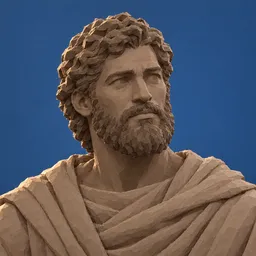
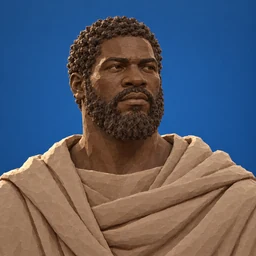
Show Judah's people as Black Israelites
Redraw the European-looking stand-in figures for Israelites with no
portrait (male/female-israel-2 and -5, group-israel-3 and -5) and give
the 316 people of Judah only the Black figures.

Claude-Session: https://claude.ai/code/session_015DV9ZvRrQgyCVhtxgRACrg

diff --git a/apps/expo/src/features/lexique/judahPeople.ts b/apps/expo/src/features/lexique/judahPeople.ts
@@ -1,0 +1,321 @@
+// The people of the tribe of Judah who have no portrait of their own, from the published People
+// data (data.cyberjudah.io/api/people, "tribe": "Tribe of Judah"). Their stand-in figure is always
+// one of the Black men or women, never another tribe's.
+export const JUDAH_PEOPLE = new Set([
+  'abigail-2sa-17-25',
+  'abihail-2ch-11-18',
+  'abinadab-1sa-16-8',
+  'abishur-1ch-2-28',
+  'abiud-mat-1-13',
+  'achim-mat-1-14',
+  'achsah-jos-15-16',
+  'adaiah-neh-11-5',
+  'addi-luk-3-28',
+  'aharhel-1ch-4-8',
+  'ahban-1ch-2-29',
+  'ahijah-1ch-2-25',
+  'ahumai-1ch-4-2',
+  'ahuzam-1ch-4-6',
+  'akkub-1ch-3-24',
+  'amariah-neh-11-4',
+  'ammihud-1ch-9-4',
+  'amnon-1ch-4-20',
+  'amon-2ki-21-18',
+  'amos-luk-3-25',
+  'anani-1ch-3-24',
+  'anub-1ch-4-8',
+  'appaim-1ch-2-30',
+  'ardon-1ch-2-18',
+  'arnan-1ch-3-21',
+  'asareel-1ch-4-16',
+  'ashur-1ch-2-24',
+  'assir-1ch-3-17',
+  'athaiah-neh-11-4',
+  'attai-2ch-11-20',
+  'azariah-1ch-2-8',
+  'azariah-2ch-21-2',
+  'azariah-2ch-21-2b',
+  'azariah-dan-1-6',
+  'azor-mat-1-13',
+  'azrikam-1ch-3-23',
+  'bani-1ch-9-4',
+  'bariah-1ch-3-22',
+  'baruch-neh-11-5',
+  'basmath-1ki-4-15',
+  'ben-hanan-1ch-4-20',
+  'ben-zoheth-1ch-4-20',
+  'berechiah-1ch-3-20',
+  'beth-rapha-1ch-4-12',
+  'bunah-1ch-2-25',
+  'calcol-1ch-2-6',
+  'caleb-1ch-2-50',
+  'carmi-jos-7-1',
+  'chalcol-1ki-4-31',
+  'chelub-1ch-4-11',
+  'chelubai-1ch-2-9',
+  'chileab-2sa-3-3',
+  'chilion-rut-1-2',
+  'col-hozeh-neh-11-5',
+  'cosam-luk-3-28',
+  'coz-1ch-4-8',
+  'dalaiah-1ch-3-24',
+  'dara-1ch-2-6',
+  'darda-1ki-4-31',
+  'eker-1ch-2-27',
+  'elah-1ch-4-15',
+  'eleazar-mat-1-15',
+  'eliab-1sa-16-6',
+  'eliada-2sa-5-16',
+  'eliakim-luk-3-30',
+  'eliakim-mat-1-13',
+  'eliashib-1ch-3-24',
+  'eliezer-luk-3-29',
+  'elihu-1ch-27-18',
+  'elioenai-1ch-3-23',
+  'eliphalet-2sa-5-16',
+  'eliphelet-1ch-3-6',
+  'elishama-1ch-3-6',
+  'elishama-2ki-25-25',
+  'elishama-2sa-5-16',
+  'elisheba-exo-6-23',
+  'elishua-2sa-5-15',
+  'eliud-mat-1-14',
+  'elmodam-luk-3-28',
+  'ephah-1ch-2-47',
+  'epher-1ch-4-17',
+  'er-1ch-4-21',
+  'er-luk-3-28',
+  'eshton-1ch-4-11',
+  'esli-luk-3-25',
+  'ethan-1ch-2-6',
+  'ethan-1ki-4-31',
+  'ethnan-1ch-4-7',
+  'ezer-1ch-4-4',
+  'ezra-1ch-4-17',
+  'gazez-1ch-2-46',
+  'geshan-1ch-2-47',
+  'haahashtari-1ch-4-6',
+  'hamul-gen-46-12',
+  'hananiah-1ch-3-19',
+  'hananiah-dan-1-6',
+  'haran-1ch-2-46',
+  'hareph-1ch-2-51',
+  'haroeh-1ch-2-52',
+  'harum-1ch-4-8',
+  'hasadiah-1ch-3-20',
+  'hashubah-1ch-3-20',
+  'hathath-1ch-4-13',
+  'hattush-1ch-3-22',
+  'hattush-ezr-8-2',
+  'hazaiah-neh-11-5',
+  'hazelelponi-1ch-4-3',
+  'heber-1ch-4-18',
+  'hebron-1ch-2-42',
+  'heli-luk-3-23',
+  'heman-1ch-2-6',
+  'heman-1ki-4-31',
+  'hepher-1ch-4-6',
+  'hezekiah-1ch-3-23',
+  'hezron-gen-46-12',
+  'hodaiah-1ch-3-24',
+  'hoshama-1ch-3-18',
+  'hur-exo-31-2',
+  'ibhar-2sa-5-15',
+  'idbash-1ch-4-3',
+  'igeal-1ch-3-22',
+  'imri-1ch-9-4',
+  'iru-1ch-4-15',
+  'ishbah-1ch-4-17',
+  'ishi-1ch-2-31',
+  'ishi-1ch-4-20',
+  'ishma-1ch-4-3',
+  'ithream-2sa-3-5',
+  'jabez-1ch-4-9',
+  'jacob-mat-1-15',
+  'jada-1ch-2-28',
+  'jahath-1ch-4-2',
+  'jahdai-1ch-2-47',
+  'jalon-1ch-4-17',
+  'jamin-1ch-2-27',
+  'janna-luk-3-24',
+  'japhia-2sa-5-15',
+  'jecamiah-1ch-3-18',
+  'jeconiah-1ch-3-16',
+  'jehaleleel-1ch-4-16',
+  'jehiel-2ch-21-2',
+  'jehoahaz-2ki-23-30',
+  'jehoiachin-2ki-24-6',
+  'jehoram-1ki-22-50',
+  'jehosheba-2ki-11-2',
+  'jekuthiel-1ch-4-18',
+  'jephunneh-num-13-6',
+  'jered-1ch-4-18',
+  'jerimoth-2ch-11-18',
+  'jesaiah-1ch-3-21',
+  'jesher-1ch-2-18',
+  'jether-1ch-2-32',
+  'jether-1ch-4-17',
+  'jeuel-1ch-9-6',
+  'jeush-2ch-11-19',
+  'jezoar-1ch-4-7',
+  'jezreel-1ch-4-3',
+  'joab-1ch-4-14',
+  'joacim-1es-5-5',
+  'joanna-luk-3-27',
+  'joash-1ch-4-22',
+  'johanan-1ch-3-15',
+  'johanan-1ch-3-24',
+  'joiarib-neh-11-5',
+  'jokim-1ch-4-22',
+  'jonan-luk-3-30',
+  'jonathan-1ch-2-32',
+  'jonathan-2sa-21-21',
+  'jorim-luk-3-29',
+  'jose-luk-3-29',
+  'joseph-luk-3-24',
+  'joseph-luk-3-26',
+  'joseph-luk-3-30',
+  'jotham-1ch-2-47',
+  'jotham-2ki-15-5',
+  'juda-luk-3-26',
+  'juda-luk-3-30',
+  'jushab-hesed-1ch-3-20',
+  'kenaz-1ch-4-15',
+  'kenaz-jos-15-17',
+  'korah-1ch-2-43',
+  'laadah-1ch-4-21',
+  'lahad-1ch-4-2',
+  'lettus-1es-8-29',
+  'levi-luk-3-24',
+  'levi-luk-3-29',
+  'maaseiah-neh-11-5',
+  'maath-luk-3-26',
+  'maaz-1ch-2-27',
+  'mahalaleel-neh-11-4',
+  'mahalath-2ch-11-18',
+  'maharai-2sa-23-28',
+  'mahlon-rut-1-2',
+  'mahol-1ki-4-31',
+  'malchiram-1ch-3-18',
+  'maon-1ch-2-45',
+  'mareshah-1ch-2-42',
+  'mary-mat-1-16',
+  'mattatha-luk-3-31',
+  'mattathias-luk-3-25',
+  'mattathias-luk-3-26',
+  'matthan-mat-1-15',
+  'matthat-luk-3-24',
+  'matthat-luk-3-29',
+  'mehir-1ch-4-11',
+  'melchi-luk-3-24',
+  'melchi-luk-3-28',
+  'melea-luk-3-31',
+  'menan-luk-3-31',
+  'meonothai-1ch-4-14',
+  'mered-1ch-4-17',
+  'mesha-1ch-2-42',
+  'meshezabeel-neh-11-24',
+  'meshullam-1ch-3-19',
+  'michael-2ch-21-2',
+  'mishael-dan-1-6',
+  'molid-1ch-2-29',
+  'moza-1ch-2-46',
+  'naam-1ch-4-15',
+  'nadab-1ch-2-28',
+  'nagge-luk-3-25',
+  'naum-luk-3-25',
+  'neariah-1ch-3-22',
+  'nedabiah-1ch-3-18',
+  'nepheg-2sa-5-15',
+  'neri-luk-3-27',
+  'nethaneel-1ch-2-14',
+  'nogah-1ch-3-7',
+  'obadiah-1ch-3-21',
+  'ohel-1ch-3-20',
+  'omri-1ch-9-4',
+  'onam-1ch-2-26',
+  'ophrah-1ch-4-14',
+  'oren-1ch-2-25',
+  'ozem-1ch-2-15',
+  'ozem-1ch-2-25',
+  'paseah-1ch-4-12',
+  'pedaiah-1ch-3-18',
+  'pelaiah-1ch-3-24',
+  'pelatiah-1ch-3-21',
+  'pelet-1ch-2-47',
+  'peleth-1ch-2-33',
+  'penuel-1ch-4-4',
+  'pethahiah-neh-11-24',
+  'raddai-1ch-2-14',
+  'raham-1ch-2-44',
+  'ram-1ch-2-25',
+  'reaiah-1ch-4-2',
+  'regem-1ch-2-47',
+  'rekem-1ch-2-43',
+  'rephaiah-1ch-3-21',
+  'rhesa-luk-3-27',
+  'rinnah-1ch-4-20',
+  'sadoc-mat-1-14',
+  'salathiel-1ch-3-17',
+  'salma-1ch-2-51',
+  'saraph-1ch-4-22',
+  'sechenias-1es-8-29',
+  'segub-1ch-2-21',
+  'seled-1ch-2-30',
+  'semei-luk-3-26',
+  'seraiah-1ch-4-13',
+  'shaaph-1ch-2-47',
+  'shaaph-1ch-2-49',
+  'shallum-1ch-3-15',
+  'shamariah-2ch-11-19',
+  'shammah-1sa-16-9',
+  'shammai-1ch-2-28',
+  'shammai-1ch-2-44',
+  'shammai-1ch-4-17',
+  'shammua-2sa-5-14',
+  'shaphat-1ch-3-22',
+  'sheber-1ch-2-48',
+  'shechaniah-1ch-3-21',
+  'shelomith-1ch-3-19',
+  'shema-1ch-2-43',
+  'shemaiah-1ch-3-22',
+  'shenazar-1ch-3-18',
+  'shephatiah-2ch-21-2',
+  'shephatiah-2sa-3-4',
+  'shephatiah-neh-11-4',
+  'sheshan-1ch-2-31',
+  'sheva-1ch-2-49',
+  'shiloni-neh-11-5',
+  'shimei-1ch-3-19',
+  'shimon-1ch-4-20',
+  'shobab-1ch-2-18',
+  'shobab-2sa-5-14',
+  'shobal-1ch-2-50',
+  'shuah-1ch-4-11',
+  'simeon-luk-3-30',
+  'tamar-2sa-14-27',
+  'taphath-1ki-4-11',
+  'tappuah-1ch-2-43',
+  'tehinnah-1ch-4-12',
+  'temeni-1ch-4-6',
+  'tilon-1ch-4-20',
+  'tirhanah-1ch-2-48',
+  'tiria-1ch-4-16',
+  'uri-exo-31-2',
+  'uthai-1ch-9-4',
+  'uzziah-neh-11-4',
+  'zabdi-jos-7-1',
+  'zaham-2ch-11-19',
+  'zaza-1ch-2-33',
+  'zebadiah-1ch-27-7',
+  'zechariah-2ch-21-2',
+  'zechariah-neh-11-4',
+  'zechariah-neh-11-5',
+  'zedekiah-1ch-3-16',
+  'zereth-1ch-4-7',
+  'zimri-1ch-2-6',
+  'ziph-1ch-4-16',
+  'ziphah-1ch-4-16',
+  'ziza-2ch-11-20',
+  'zoheth-1ch-4-20',
+])

diff --git a/apps/expo/src/features/lexique/strongEntityAvatars.ts b/apps/expo/src/features/lexique/strongEntityAvatars.ts
@@ -1,6 +1,7 @@
 import { getStrongEntityAvatarKey } from './strongEntityPresentation'
 import { CYBERJUDAH_PORTRAITS } from './cyberJudahPortraits'
 import { ISRAELITE_GROUPS } from './israeliteGroups'
+import { JUDAH_PEOPLE } from './judahPeople'
 import { PEOPLE_NATIONS, type PeopleNation } from './peopleNations'
 
 export const ENTITY_AVATAR_IMAGES = {
@@ -153,10 +154,19 @@ const groupAvatar = (uniqueName: string) =>
   (ISRAELITE_GROUPS.has(uniqueName)
     ? ISRAEL_GROUPS[seedIndex(uniqueName, ISRAEL_GROUPS.length)]
     : undefined)
-// Men and women the same way: their nation's figure, else Israel's own.
-const personAvatar = (uniqueName: string, key: 'male' | 'female') =>
-  nationFigure(uniqueName)?.[key] ??
-  ISRAEL_PEOPLE[key][seedIndex(uniqueName, ISRAEL_PEOPLE[key].length)]
+// The figures of Israel that are Black: every one but the third, who is Native American. The tribe
+// of Judah only ever gets these.
+const JUDAH_FIGURES = {
+  male: ISRAEL_PEOPLE.male.filter((_, index) => index !== 2),
+  female: ISRAEL_PEOPLE.female.filter((_, index) => index !== 2),
+}
+// Men and women the same way: their nation's figure, else Israel's own (Judah's always Black).
+const personAvatar = (uniqueName: string, key: 'male' | 'female') => {
+  const nation = nationFigure(uniqueName)?.[key]
+  if (nation) return nation
+  const figures = JUDAH_PEOPLE.has(uniqueName) ? JUDAH_FIGURES[key] : ISRAEL_PEOPLE[key]
+  return figures[seedIndex(uniqueName, figures.length)]
+}
 
 /** A person's own portrait where CyberJudah has one, else the avatar for their kind. */
 export const getStrongEntityAvatarSource = (category: string, type: string, uniqueName?: string) =>

diff --git a/apps/expo/src/assets/images/entity-avatars/README.md b/apps/expo/src/assets/images/entity-avatars/README.md
@@ -7,3 +7,9 @@ Shown for a person or group that has no portrait (`src/features/lexique/strongEn
 The other object avatars are unchanged from Bible Strong.
 
 `<kind>-<nation>.jpg` are CyberJudah's own clay figures for the other nations, one man, woman and people for each nation on the classes' Table of Nations (Genesis 10) and for Japheth, made in Higgsfield in the "CyberJudah People Avatars" project. `src/features/lexique/peopleNations.ts` says which nation each person or people comes of. Bible Strong's grey clay statues are no longer used.
+
+`<kind>-israel-<n>.webp` are the stand-in figures for Israelites with no portrait of their own. On
+2026-10-31 Obie flagged a European-looking figure on a man of Judah (Shobab), so `male-israel-2`,
+`male-israel-5`, `female-israel-2`, `female-israel-5`, `group-israel-3` and `group-israel-5` were
+redrawn as Black Israelites in the same clay style (Higgsfield). The third man and woman are Native
+American; `src/features/lexique/judahPeople.ts` lists the people of Judah, who never get them.

diff --git a/changes/claude-project-thread-o0fwpn.md b/changes/claude-project-thread-o0fwpn.md
@@ -1,0 +1,9 @@
+# Judah's people shown as Black Israelites
+
+- People with no portrait of their own were sometimes given a European-looking stand-in figure
+  (Shobab, a son of David, among them). About 1,450 people drew one of those figures, 130 of them
+  of the tribe of Judah. The four European-looking figures (two men, two women) and the two group
+  pictures with European-looking men are redrawn as Black Israelites in the same clay style.
+- The tribe of Judah's 316 people without a portrait now only ever get a Black figure, never the
+  Native American one (`judahPeople.ts`, from the published People data).
+- The 261 named portraits were checked and are unchanged: every Israelite among them is Black.
